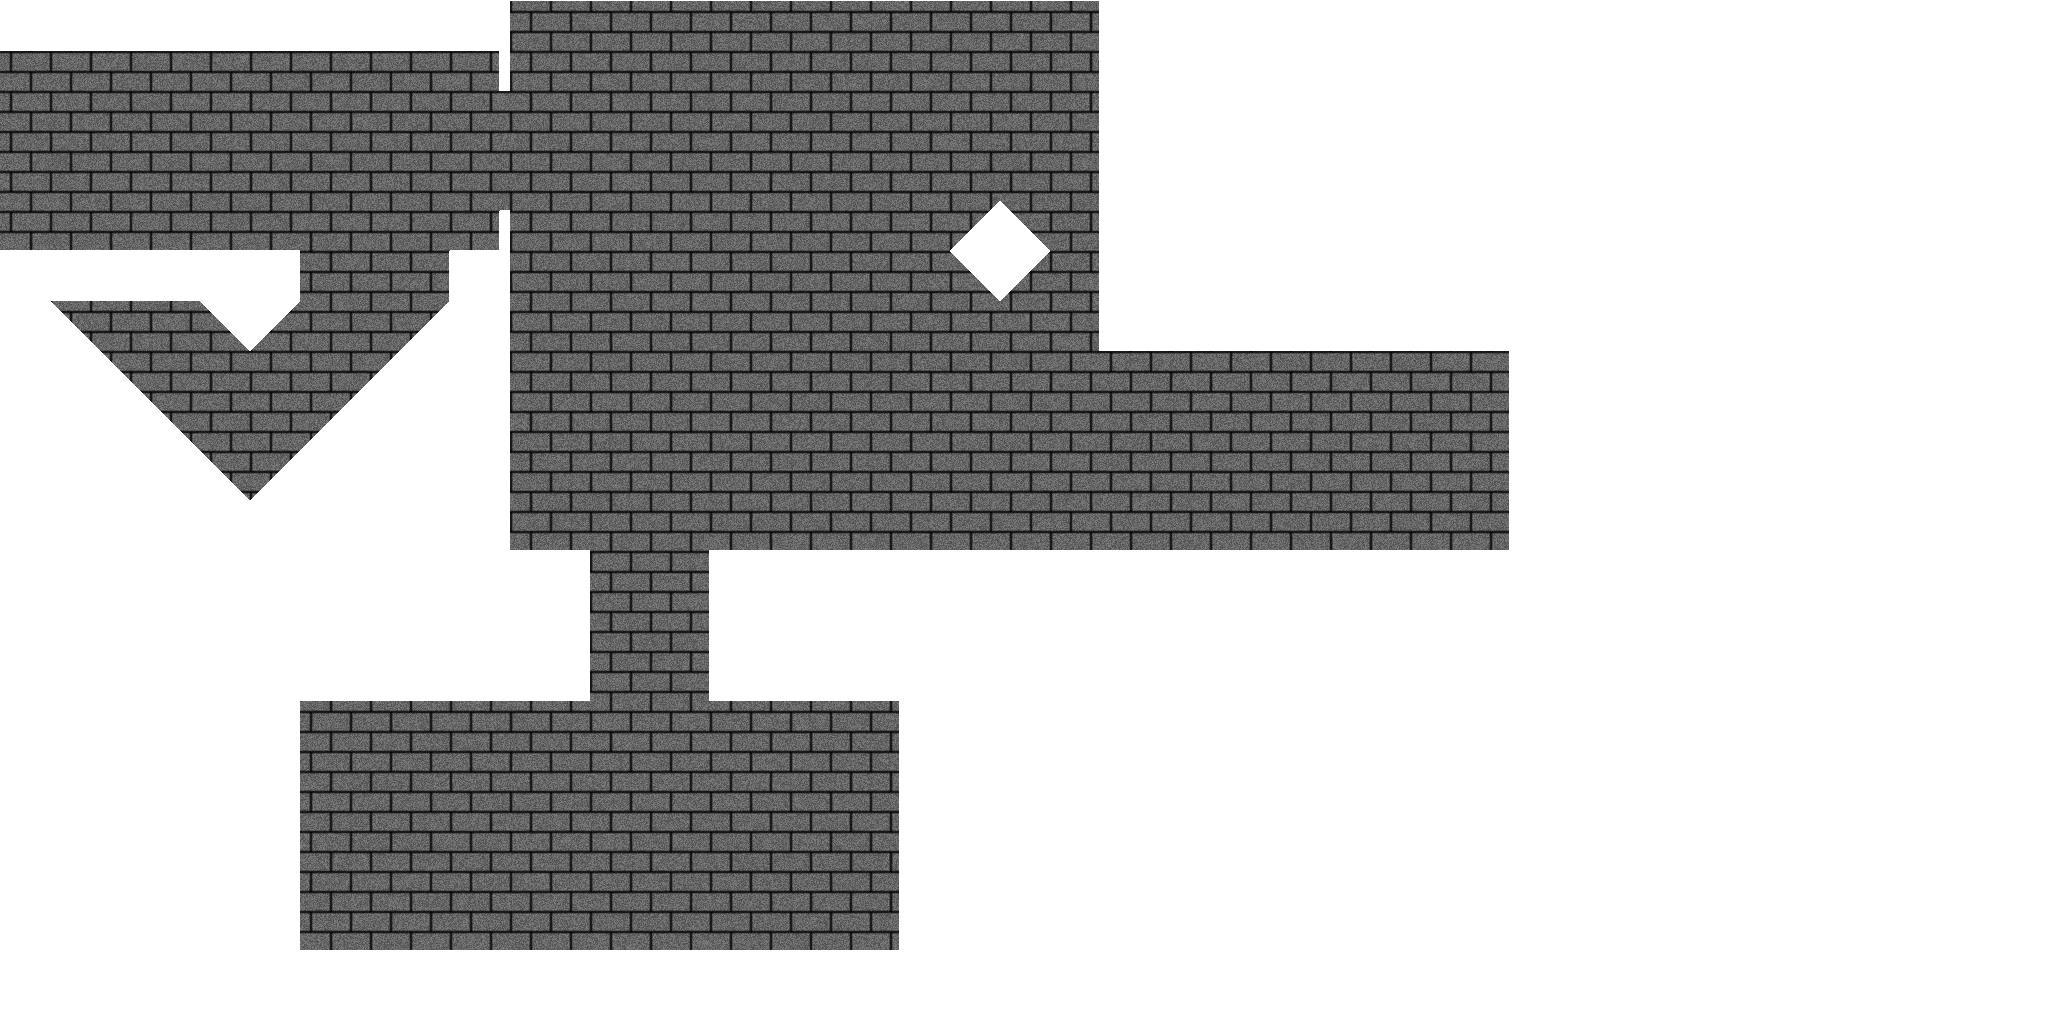
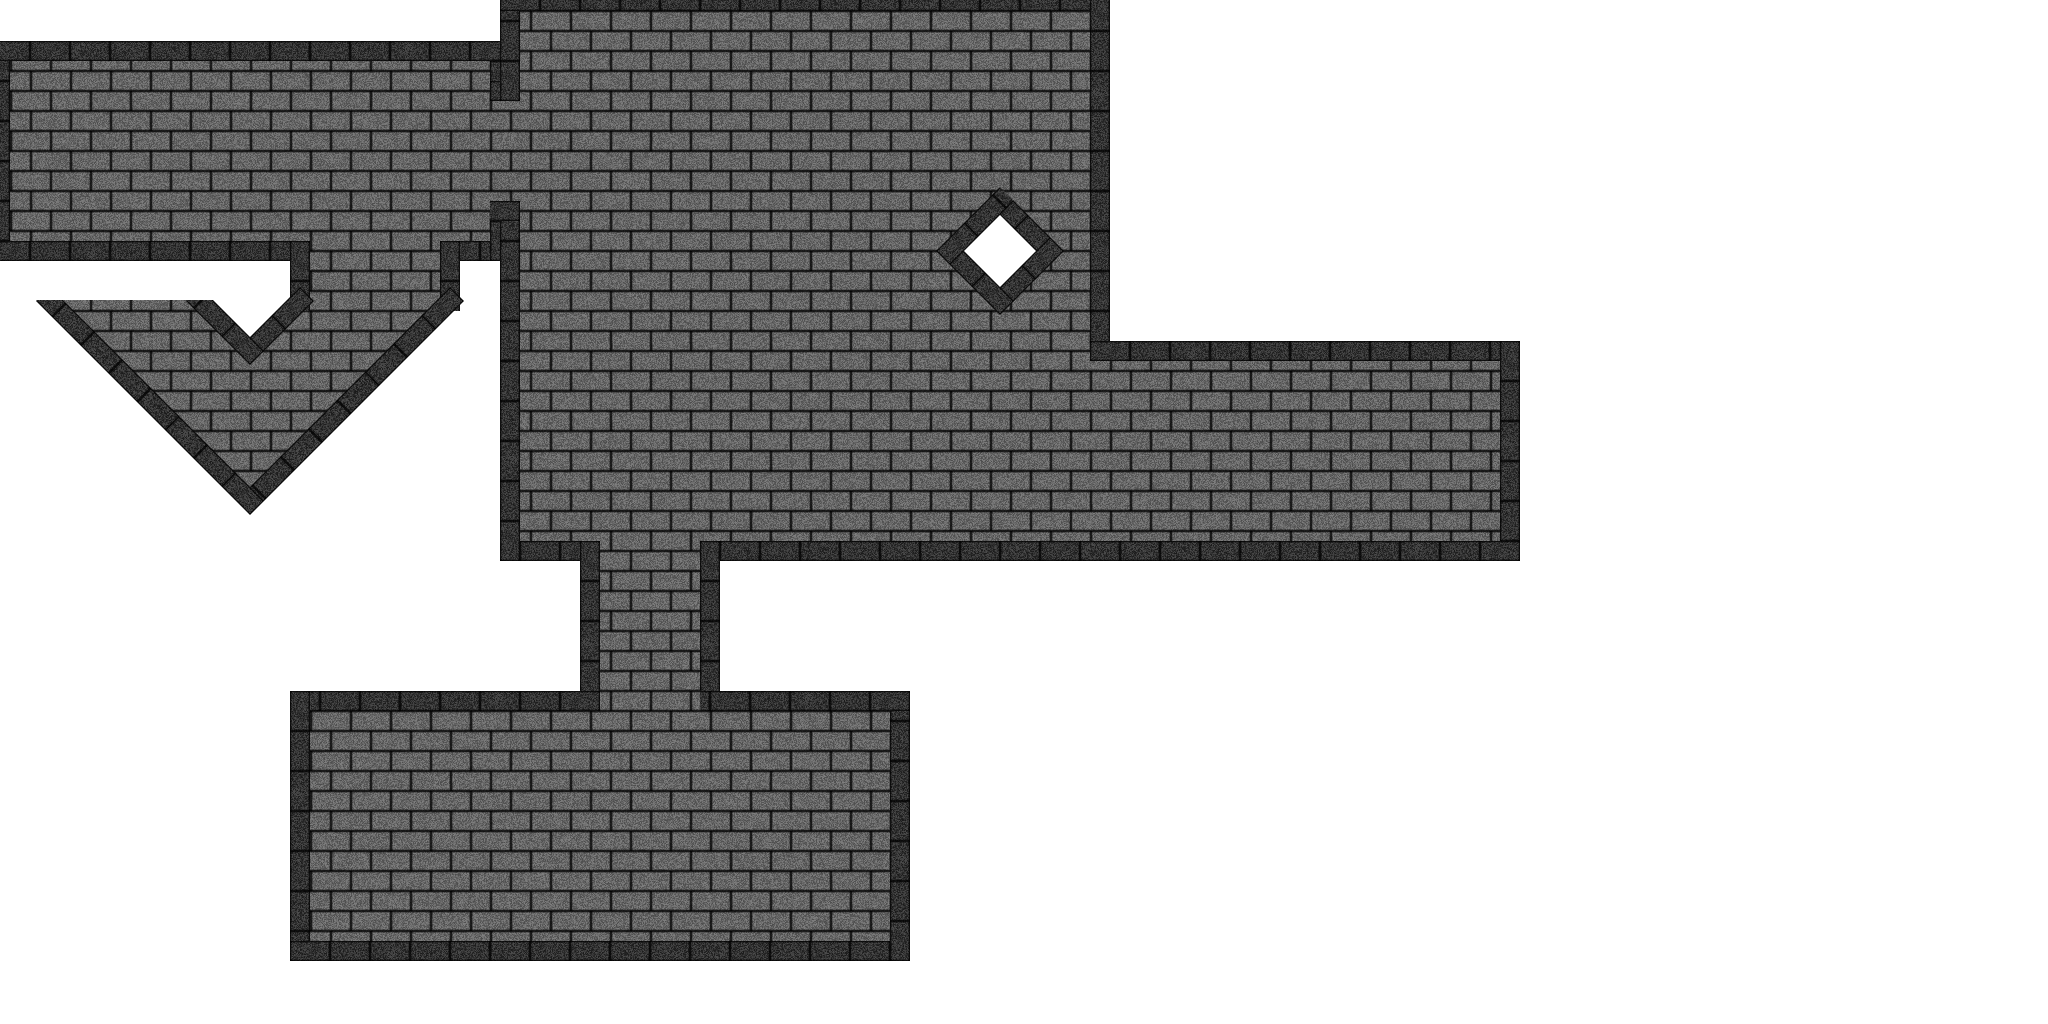
support for backgrounds loaded from image files

Changed region(s): [[0.0, 0.0, 0.75, 0.9375]]

diff --git a/artwork/generators/granite/index.html b/artwork/generators/granite/index.html
@@ -33,8 +33,34 @@
     <script type="application/x-javascript" src="/engine/drawing/webgl_filter.js"></script>
     <script type="application/x-javascript" src="/engine/drawing/webgl_text.js"></script>
 
-    <script type="application/x-javascript" src="/engine/control/input.js"></script>
 
+    <script type="application/x-javascript" src="/engine/world/map.js"></script>
+    <script type="application/x-javascript" src="/engine/world/detector_segment.js"></script>
+    <script type="application/x-javascript" src="/engine/world/region.js"></script>
+    <script type="application/x-javascript" src="/engine/world/vertex.js"></script>
+    <script type="application/x-javascript" src="/engine/world/level.js"></script>
+
+
+    <script type="application/x-javascript" src="/engine/animation/time_manager.js"></script>
+    <script type="application/x-javascript" src="/engine/animation/scroll.js"></script>
+    <script type="application/x-javascript" src="/engine/animation/interpolate.js"></script>
+    <script type="application/x-javascript" src="/engine/animation/scene_graph.js"></script>
+    <script type="application/x-javascript" src="/engine/animation/body_model.js"></script>
+    <script type="application/x-javascript" src="/engine/animation/character.js"></script>
+
+    <script type="application/x-javascript" src="/engine/control/collision.js"></script>
+    <script type="application/x-javascript" src="/engine/control/input.js"></script>
+    <script type="application/x-javascript" src="/engine/control/agent.js"></script>
+
+
+    <script type="application/x-javascript" src="/engine/lighting/light.js"></script>
+    <script type="application/x-javascript" src="/engine/lighting/visibility_context.js"></script>
+
+    <script type="application/x-javascript" src="/content/characters/walk_demo.js"></script>
+    <script type="application/x-javascript" src="/content/characters/warrior/warrior.js"></script>
+    <script type="application/x-javascript" src="/content/maps/demo/demo.js"></script>
+    
+    <script type="application/x-javascript" src="/content/content.js"></script>
 </head>
 <body>
 <script>
@@ -53,10 +79,14 @@ $(function() {
     var drawer = new WebGLDrawer(canvas, null, false);
     
     drawer.update_resolution();
+
+    Content.load();
+    Content.set_drawer(drawer);
+
     
     new AsyncGroup(
-        new FileLoader('/artwork/generators/granite/', ['cv.glsl', 'cf.glsl'])
-        ,new ImageLoader('/images/', ['noise.png'])
+        new FileLoader('/artwork/generators/granite/', ['cv.glsl', 'cf.glsl']),
+        Content
     ).run(function(shaders, test_images) {
         drawer.standard_shaders(shaders[0], shaders[1]);
         drawer.init_uniforms();
@@ -65,6 +95,8 @@ $(function() {
         var u_bottom = drawer.shader_program.uniform1f('u_bottom');
         var u_left = drawer.shader_program.uniform1f('u_left');
         var u_right = drawer.shader_program.uniform1f('u_right');
+        var u_capturing = drawer.shader_program.uniform1f('u_capturing');
+        var u_tex_zoom = drawer.shader_program.uniform2fv('u_tex_zoom');
         
         function Brick(top_left, size) {
             this.rect = drawer.rect(top_left, size, [0,1,0,1]);
@@ -88,10 +120,53 @@ $(function() {
             }
         }
 
+        var brick_vector = [brick_size[0], 0];
+        var seg = [[100, 100], [200, 400]];
+
+        function Wall(seg, height) {
+            var tr = mat3.create();
+            mat3.translate(tr, tr, seg[0]);
+            mat3.rotate(tr, tr, seg.seg_direction().v2_angle());
+            mat3.translate(tr, tr, [-height/2, -height/2]);
+
+            this.rect = drawer.rect([0, 0], [seg.seg_length()+height, height], tc('blue'), tr);
+        }
+
+        Wall.prototype.draw = function(texture) {
+            u_tex_zoom.set([canvas.width / this.rect.size[0], canvas.height / this.rect.size[1]]);
+            this.rect.draw_with_texture(texture, [200, 20]);
+        }
+
+
+        var capture = drawer.capture([0, 0], [canvas.width, canvas.height]);
+
+
+        var tr = mat3.create();
+        mat3.translate(tr, tr, [100, 100]);
+        mat3.rotate(tr, tr, Math.PI/4);
+//        var test = drawer.rect([0, 0], [200, 20], tc('blue'), tr);
+        var test = new Wall(seg, 20);
+
+        var regions = Content.maps.map_demo.level_hash.level2.regions;
+        var segs = regions.map(function(r){return r.segs}).flatten();
+        var walls = segs.map(function(s){return new Wall(s, 20)});
         drawer.sync_buffers();
 
+        u_tex_zoom.set([1, 1]);
+        u_capturing.set(true);
+        capture.begin();
         bricks.map(function(b){b.draw()});
+        capture.end();
+        u_capturing.set(false);
 
+        console.debug(capture);
+
+        //capture.draw();
+        
+        walls.map(function(w){w.draw(capture.texture)});
+
+
+        
         return;
 
         var u_dot_pos = drawer.shader_program.uniform2fv('u_dot_pos');
@@ -146,7 +221,6 @@ $(function() {
             ];
         }
 
-        var texture1 = drawer.glm.texture(test_images[0]);
 
         var offset = 0;
         function t() {

diff --git a/engine/client.js b/engine/client.js
@@ -132,7 +132,7 @@ $(function() {
             drawer.clear();
             drawer.glm.set_clear_colour([1,1,1,1]);
             drawer.remove_filters();
- 
+        
             Scene.base(capture, drawer, scroll, agent, demo, map_demo);
 
             Scene.lighting(capture2, drawer, scroll, agent, dradial, follow_light, capture);
@@ -142,15 +142,15 @@ $(function() {
 
             // draw the line segments and character
 
-//            filterer.begin();
+            filterer.begin();
             
-//            drawer.u_opacity.set(0.3);
-            capture.draw();
-//            drawer.u_opacity.set(1);
+            //drawer.u_opacity.set(0.3);
+           // capture.draw();
+           // drawer.u_opacity.set(1);
             
-//            capture3.draw();
+            capture3.draw();
             
-//            filterer.draw();
+            filterer.draw();
             
             scroll.proceed();
 
@@ -180,9 +180,14 @@ Scene.base = function(capture, drawer, scroll, agent, character, map) {
     drawer.save();
     drawer.translate(scroll.translate);
    
+    agent.level.draw_floor();
+    // draw the map line segments
+    //map.draw();
+    
     // apply local transformation (for moving the character)
     drawer.save();
     drawer.translate(agent.pos).rotate(agent.facing+Math.PI/2);
+    
 
     // draw the character
     character.draw();
@@ -192,8 +197,6 @@ Scene.base = function(capture, drawer, scroll, agent, character, map) {
     // back to the scroll transformation
     drawer.restore();
     
-    // draw the map line segments
-    map.draw();
 
     // remove all transformations
     drawer.restore();

diff --git a/engine/world/map.js b/engine/world/map.js
@@ -63,7 +63,19 @@ Map.prototype.images = function(base, o) {
 }
 
 Map.prototype.process_images = function() {
+    this.image_closures = {};
+    for (var name in this.image_data) {
+        var data = this.image_data[name];
+        this.image_closures[name] = this.drawer.image(
+            data.image,
+            data.translate,
+            data.size,
+            data.clip_start,
+            data.clip_size
+        );
+    }
 }
+
 
 Map.prototype.load_visible = function() {
     var o = this.visible_obj;
@@ -98,10 +110,11 @@ Map.prototype.load_levels = function() {
         var extras = o[name][1];
         var floor_name = o[name][2];
         var regions = region_names.map(function(n){return this.region_hash[n]}.bind(this));
-        var level = new Level(this.drawer, regions, extras);
+        var level = new Level(this.drawer, regions, extras, this.image_closures[floor_name]);
         
         this.level_arr.push(level);
         this.level_hash[name] = level;
+        console.debug(this);
     }
 }
 

diff --git a/engine/drawing/webgl_drawer.js b/engine/drawing/webgl_drawer.js
@@ -255,6 +255,8 @@ WebGLDrawer.Rect = function(top_left, size, colour, transform, drawer) {
     this.slice = drawer.glm.slice(this.i_offset, 6);
 
     this.colour = colour;
+
+    this.size = size;
 }
 WebGLDrawer.Rect.inherits_from(WebGLDrawer.Drawable);
 
@@ -274,6 +276,20 @@ WebGLDrawer.Rect.prototype.draw = function() {
 
     this.after_draw();
 }
+
+WebGLDrawer.Rect.prototype.draw_with_texture = function(texture, size) {
+    var drawer = this.before_draw();
+
+    drawer.no_texture();
+    drawer.use_texture(size[0], size[1]);
+    texture.bind();
+
+    this.slice.draw_triangles();
+
+    this.after_draw();
+}
+
+
 
 WebGLDrawer.prototype.rect = function(top_left, size, colour, transform) {
     return new WebGLDrawer.Rect(top_left, size, colour, transform, this);

diff --git a/engine/animation/character.js b/engine/animation/character.js
@@ -5,19 +5,7 @@ Character.prototype.images = Map.prototype.images;
  * Creates the drawer.image objects for each image.
  * Must be called after images have loaded.
  */
-Character.prototype.process_images = function() {
-    this.image_closures = {};
-    for (var name in this.image_data) {
-        var data = this.image_data[name];
-        this.image_closures[name] = this.drawer.image(
-            data.image,
-            data.translate,
-            data.size,
-            data.clip_start,
-            data.clip_size
-        );
-    }
-}
+Character.prototype.process_images = Map.prototype.process_images;
 
 /*
  * Returns a new BodyPart from a given description.

diff --git a/engine/world/level.js b/engine/world/level.js
@@ -7,6 +7,7 @@ function Level(drawer, regions, extras, floor) {
     );
     this.lights = [];
     this.floor = floor;
+
 }
 
 Level.prototype.add_light = function(position, radius, colour) {
@@ -16,4 +17,8 @@ Level.prototype.add_light = function(position, radius, colour) {
 
 Level.prototype.update_lights = function() {
     this.lights.map(function(l){l.update()});
+}
+
+Level.prototype.draw_floor = function() {
+    this.floor.draw();
 }

diff --git a/content/maps/demo/demo.js b/content/maps/demo/demo.js
@@ -63,8 +63,8 @@ function MapDemo() {
         ['r5', 'r6', [[700, 750], [800, 750]]]
     );
 
-    this.images('content/maps/demo/images/', {
-        l1_floor: ['l1_floor.png', [100, 100]],
+    this.images('/content/maps/demo/images/', {
+        l1_floor: ['l1_floor.png', [100, 50]],
         l2_floor: ['l2_floor.png', [150, 50]]
     });
 

diff --git a/content/characters/warrior/warrior.js b/content/characters/warrior/warrior.js
@@ -1,5 +1,5 @@
 function Warrior() {
-    this.images('content/characters/warrior/images/', {
+    this.images('/content/characters/warrior/images/', {
         foot_front: ['foot-front.png', [-10, -30], [15, 40]],
         foot_back: ['foot-back.png', [-8, -8], [16, 16]],
         lower_leg_front: ['lower-leg-front.png', [-11, -60], [20, 50]],
